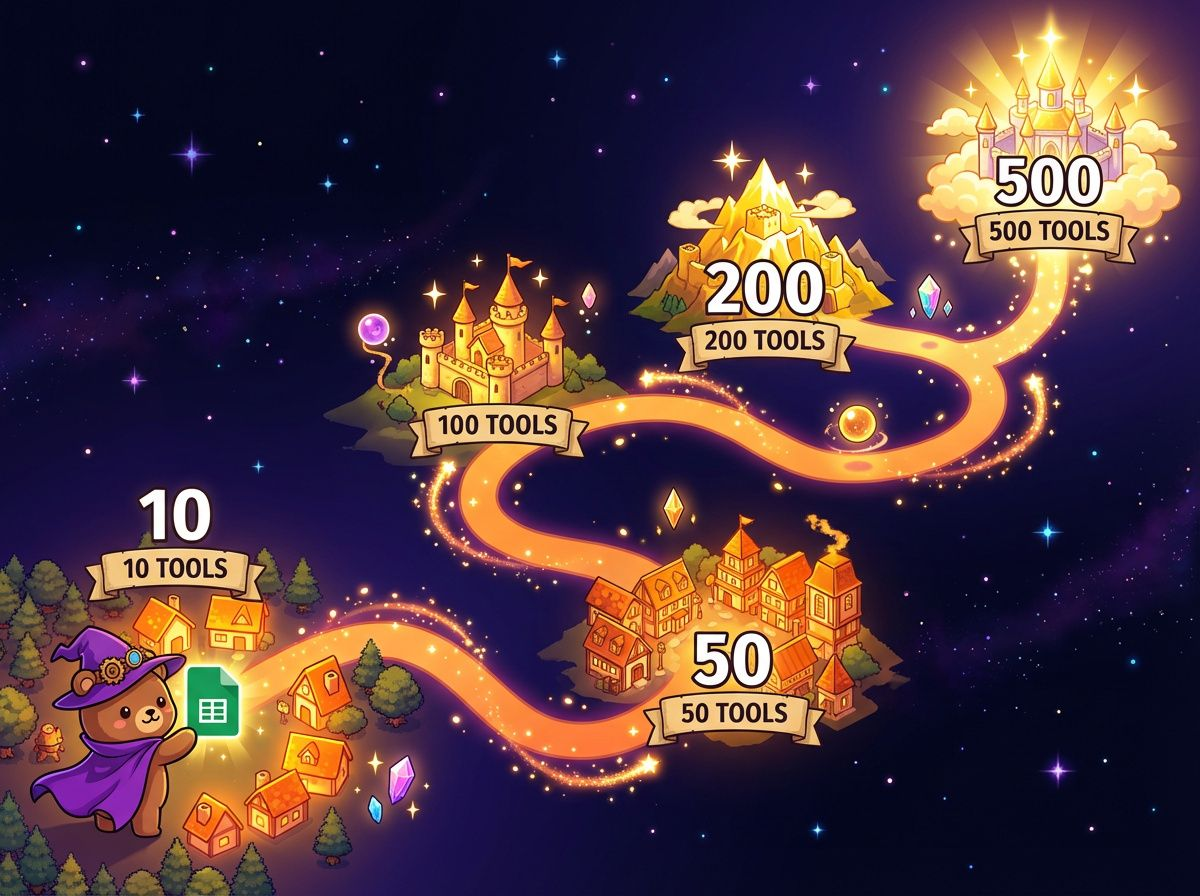
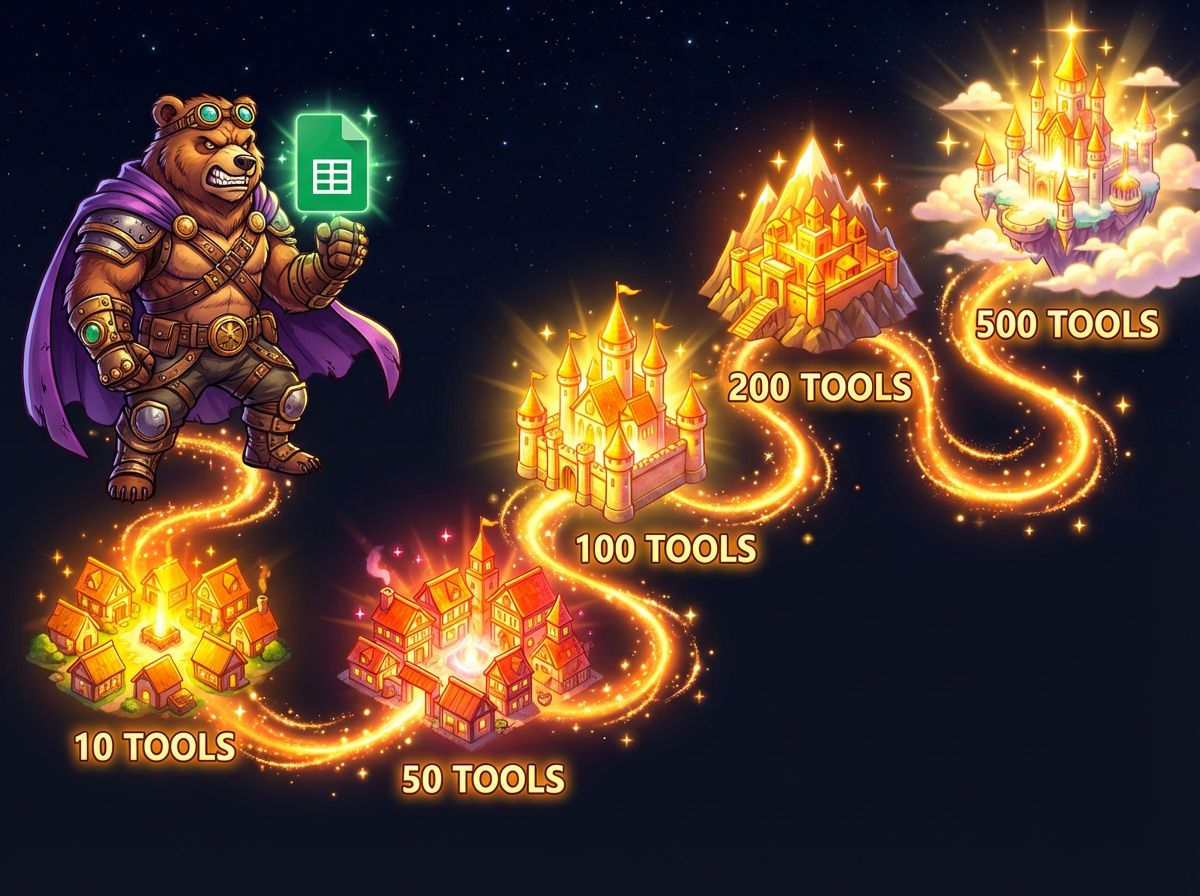
v15.4: ロードマップv2差替+opacity90%、カードbg-slate-800/90、ツールイラスト追加

diff --git a/components/Roadmap.tsx b/components/Roadmap.tsx
@@ -58,7 +58,7 @@ export default function Roadmap() {
         </div>
 
         {/* Price step bar */}
-        <div className="mb-16 rounded-2xl bg-white/[0.22] border border-white/[0.3] p-6 md:p-8">
+        <div className="mb-16 rounded-2xl bg-slate-800/90 border border-white/[0.3] p-6 md:p-8">
           <p className="mb-4 text-center text-sm font-bold text-white/50 tracking-wide">段階的値上げスケジュール</p>
           <div className="flex items-center justify-between gap-1">
             {PRICE_STEPS.map((s, i) => (
@@ -94,13 +94,12 @@ export default function Roadmap() {
 
         {/* RPG Illustration — 透過で背景に馴染ませる */}
         <div className="relative mb-16 -mx-6 md:-mx-12">
-          <div className="absolute inset-0 bg-gradient-to-b from-[#1a1a2e] via-transparent to-[#1a1a2e] z-10 pointer-events-none" />
-          <div className="absolute inset-x-0 top-0 h-20 bg-gradient-to-b from-[#1a1a2e] to-transparent z-10" />
-          <div className="absolute inset-x-0 bottom-0 h-20 bg-gradient-to-t from-[#1a1a2e] to-transparent z-10" />
+          <div className="absolute inset-x-0 top-0 h-16 bg-gradient-to-b from-[#1a1a2e] to-transparent z-10" />
+          <div className="absolute inset-x-0 bottom-0 h-16 bg-gradient-to-t from-[#1a1a2e] to-transparent z-10" />
           <img
             src="/roadmap-illustration.png"
             alt="500ツールへの冒険マップ"
-            className="w-full h-auto opacity-60"
+            className="w-full h-auto opacity-90"
           />
         </div>
 
@@ -127,7 +126,7 @@ export default function Roadmap() {
                 <div className={`rounded-2xl p-6 transition-all duration-300 hover:shadow-lg ${
                   item.status === 'active'
                     ? 'bg-gradient-to-br from-[#FF6B35]/5 to-[#F5A623]/5 border-2 border-[#FF6B35]/20 shadow-md'
-                    : 'bg-white/[0.22] border border-white/[0.3]'
+                    : 'bg-slate-800/90 border border-white/[0.3]'
                 }`}>
                   <div className="mb-3 flex items-center gap-2 flex-wrap">
                     <span className={`rounded-full px-3 py-1 text-xs font-bold ${

diff --git a/components/ToolDashboard.tsx b/components/ToolDashboard.tsx
@@ -98,6 +98,13 @@ export default function ToolDashboard() {
           </div>
         </div>
 
+        {/* Tool showcase illustration — 透過で背景に馴染ませる */}
+        <div className="relative mb-12 -mx-4 sm:-mx-6">
+          <div className="absolute inset-x-0 top-0 h-16 bg-gradient-to-b from-[#0f0f23] to-transparent z-10" />
+          <div className="absolute inset-x-0 bottom-0 h-16 bg-gradient-to-t from-[#0f0f23] to-transparent z-10" />
+          <img src="/tools-showcase.png" alt="GASツールショーケース" className="w-full max-w-3xl mx-auto h-auto opacity-80" />
+        </div>
+
         {/* Search */}
         <div className="mb-8 flex justify-center">
           <div className="relative w-full max-w-md">
@@ -137,7 +144,7 @@ export default function ToolDashboard() {
           {(showAll ? filteredTools : filteredTools.slice(0, 8)).map((tool) => (
             <div
               key={tool.name}
-              className="group rounded-2xl bg-white/[0.22] p-6 border border-white/[0.3] transition-all hover:bg-white/20 hover:border-[#FF6B35]/30 hover:-translate-y-1"
+              className="group rounded-2xl bg-slate-800/90 p-6 border border-white/[0.3] transition-all hover:bg-white/20 hover:border-[#FF6B35]/30 hover:-translate-y-1"
             >
               <div className="mb-3 flex items-center justify-between">
                 <span className="text-3xl">{tool.emoji}</span>

diff --git a/components/ToolCounter.tsx b/components/ToolCounter.tsx
@@ -12,7 +12,7 @@ export default function ToolCounter() {
   return (
     <section className="px-6 py-16 md:py-20 bg-[#0f0f23]">
       <div className="mx-auto max-w-4xl">
-        <div className="rounded-3xl bg-white/[0.22] p-8 md:p-12 shadow-xl border border-white/[0.3] backdrop-blur-sm">
+        <div className="rounded-3xl bg-slate-800/90 p-8 md:p-12 shadow-xl border border-white/[0.3] backdrop-blur-sm">
           {/* Header */}
           <div className="mb-6 flex items-center gap-3">
             <span className="text-3xl">🔥</span>
@@ -36,7 +36,7 @@ export default function ToolCounter() {
 
           {/* Info cards */}
           <div className="mt-8 grid gap-4 md:grid-cols-3">
-            <div className="rounded-2xl bg-white/[0.22] border border-white/[0.3] p-5 text-center">
+            <div className="rounded-2xl bg-slate-800/90 border border-white/[0.3] p-5 text-center">
               <div className="text-sm font-medium text-white/50">現在の価格</div>
               <div className="text-3xl font-black text-[#FF6B35]">¥{CURRENT_PRICE.toLocaleString()}</div>
               <div className="text-sm text-white/50">/月</div>

diff --git a/components/Testimonials.tsx b/components/Testimonials.tsx
@@ -63,7 +63,7 @@ export default function Testimonials() {
           {TESTIMONIALS.map((t) => (
             <div
               key={t.name}
-              className="group relative rounded-2xl bg-white/[0.22] p-8 border border-white/[0.3] transition-all duration-300 hover:bg-white/8 hover:-translate-y-1"
+              className="group relative rounded-2xl bg-slate-800/90 p-8 border border-white/[0.3] transition-all duration-300 hover:bg-white/8 hover:-translate-y-1"
             >
               {/* Metric badge */}
               <div className="mb-5 flex items-center gap-3">

diff --git a/components/PricingTable.tsx b/components/PricingTable.tsx
@@ -30,7 +30,7 @@ export default function PricingTable() {
               className={`relative rounded-2xl p-8 text-center transition-all ${
                 tier.current
                   ? 'bg-gradient-to-br from-[#FF6B35] to-[#F5A623] text-white shadow-2xl shadow-[#FF6B35]/30 scale-105 ring-4 ring-[#FF6B35]/20'
-                  : 'bg-white/[0.22] border border-white/[0.3] text-white'
+                  : 'bg-slate-800/90 border border-white/[0.3] text-white'
               }`}
             >
               {tier.current && (

diff --git a/components/BeforeAfter.tsx b/components/BeforeAfter.tsx
@@ -8,7 +8,7 @@ export default function BeforeAfter() {
 
         <div className="grid gap-8 md:grid-cols-2">
           {/* Before */}
-          <div className="rounded-3xl bg-white/[0.22] p-8 shadow-lg border border-red-500/30 md:p-10">
+          <div className="rounded-3xl bg-slate-800/90 p-8 shadow-lg border border-red-500/30 md:p-10">
             <div className="mb-6 inline-flex rounded-full bg-red-500/10 px-4 py-2 text-sm font-bold text-red-400">
               ❌ SaaS月額課金地獄
             </div>

diff --git a/components/FAQ.tsx b/components/FAQ.tsx
@@ -54,7 +54,7 @@ export default function FAQ() {
 
         <div className="space-y-3">
           {FAQS.map((faq, i) => (
-            <div key={i} className="rounded-2xl bg-white/[0.22] border border-white/[0.3] overflow-hidden">
+            <div key={i} className="rounded-2xl bg-slate-800/90 border border-white/[0.3] overflow-hidden">
               <button
                 onClick={() => setOpenIndex(openIndex === i ? null : i)}
                 className="flex w-full items-center justify-between p-6 text-left"

diff --git a/components/Profile.tsx b/components/Profile.tsx
@@ -2,7 +2,7 @@ export default function Profile() {
   return (
     <section className="px-6 py-12 md:py-28 bg-[#0f0f23]">
       <div className="mx-auto max-w-4xl">
-        <div className="rounded-3xl bg-white/[0.22] p-8 border border-white/[0.3] md:p-12">
+        <div className="rounded-3xl bg-slate-800/90 p-8 border border-white/[0.3] md:p-12">
           <div className="flex flex-col md:flex-row items-center gap-8">
             {/* Avatar */}
             <div className="relative flex-shrink-0">
